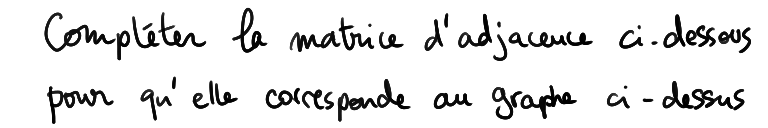
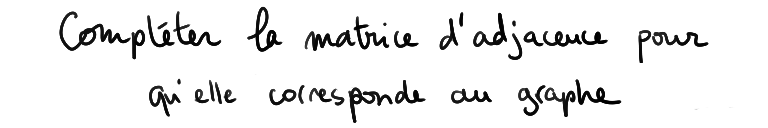
Exercise matrix to graph

diff --git a/ex-matrtograph.go b/ex-matrtograph.go
@@ -1,0 +1,79 @@
+package main
+
+import (
+	"math/rand"
+
+	"github.com/hajimehoshi/ebiten/v2"
+)
+
+func initMatrToGraph() (e exo) {
+
+	e.BasicSetup()
+	e.id = matrToGraph
+	e.successRequired = 5
+
+	elementSpacing := 100
+
+	// title setup
+	e.titleImage = titleMatrToGraphImage
+	xTitleShift, yTitleShift := e.titleImage.Size()
+	e.titleXPosition = (windowWidth - xTitleShift) / 2
+	e.titleYPosition = elementSpacing
+	e.successCounterY = elementSpacing + yTitleShift
+	yTitleShift += spriteSide
+
+	// graph setup
+	e.modifiableGraph = true
+	e.modifiableAdjMatr = false
+	e.displayGraph = true
+	e.displayAdjMatr = true
+
+	e.g.genConnectedGraph(4, 4, 12)
+	e.g.linkMatrGraph = false
+	e.g.clearGraph()
+
+	nodeSpacing := 300
+	e.g.xposition = windowWidth/2 + (windowWidth/2-nodeSpacing)/2
+	e.g.yposition = 2*elementSpacing + yTitleShift
+	e.g.xsize = nodeSpacing
+	e.g.ysize = nodeSpacing
+
+	e.g.nodes[1].xposition = nodeSpacing
+	e.g.nodes[2].yposition = nodeSpacing
+	e.g.nodes[3].xposition = nodeSpacing
+	e.g.nodes[3].yposition = nodeSpacing
+
+	// matrix setup
+	matrixSize := 5 * matrixCellSize
+	e.g.xmatrposition = (windowWidth/2 - matrixSize) / 2
+	e.g.ymatrposition = 2*elementSpacing + yTitleShift
+
+	// question setup
+	from := rand.Intn(4)
+	to := rand.Intn(3)
+	if to == from {
+		to = 3
+	}
+	xshift, yshift := matrToGraphImage.Size()
+	e.drawQuestion = func(screen *ebiten.Image) {
+		options := ebiten.DrawImageOptions{}
+		options.GeoM.Translate(float64((windowWidth-xshift)/2), float64(e.g.ysize+4*elementSpacing+yTitleShift))
+		screen.DrawImage(
+			matrToGraphImage,
+			&options,
+		)
+	}
+
+	// answers setup
+	e.hasAnswerSheet = true
+	answerSize, _ := finiImage.Size()
+	e.answers.init((windowWidth-answerSize)/2, e.g.ysize+yshift+4*elementSpacing+20+yTitleShift)
+	e.answers.addButton(0, 0, finiImage)
+
+	e.checkResult = func() (bool, bool) {
+		return e.g.checkGraphMatrEquality(), e.answers.clics[0] >= 1
+	}
+
+	// return exercise
+	return e
+}

diff --git a/assets.go b/assets.go
@@ -78,6 +78,14 @@ var graphToMatrImage *ebiten.Image // should maybe be created only when needed
 var titleGraphToMatrAsset []byte
 var titleGraphToMatrImage *ebiten.Image // should maybe be created only when needed
 
+//go:embed assets/ex-matrtograph.png
+var matrToGraphAsset []byte
+var matrToGraphImage *ebiten.Image // should maybe be created only when needed
+
+//go:embed assets/extitle-matrtograph.png
+var titleMatrToGraphAsset []byte
+var titleMatrToGraphImage *ebiten.Image // should maybe be created only when needed
+
 const spriteSide int = 64
 
 func loadAssets() {
@@ -183,6 +191,18 @@ func loadAssets() {
 		log.Fatal(err)
 	}
 	titleGraphToMatrImage = ebiten.NewImageFromImage(decodedAsset)
+
+	decodedAsset, _, err = image.Decode(bytes.NewReader(matrToGraphAsset))
+	if err != nil {
+		log.Fatal(err)
+	}
+	matrToGraphImage = ebiten.NewImageFromImage(decodedAsset)
+
+	decodedAsset, _, err = image.Decode(bytes.NewReader(titleMatrToGraphAsset))
+	if err != nil {
+		log.Fatal(err)
+	}
+	titleMatrToGraphImage = ebiten.NewImageFromImage(decodedAsset)
 }
 
 // split the graphElementsImage

diff --git a/main.go b/main.go
@@ -29,7 +29,7 @@ func (g *game) init() {
 	g.goToNext.addButton((windowWidth-xshift)/2, 0, suivantImage)
 	g.onClicNextButton = -1
 	g.selectedNextButton = -1
-	g.e = initGraphToMatr()
+	g.e = initExistArcGraph()
 }
 
 func (g *game) reset() {
@@ -75,6 +75,8 @@ func (g *game) Update() error {
 				g.e = initExistPathMatr()
 			case graphToMatr:
 				g.e = initGraphToMatr()
+			case matrToGraph:
+				g.e = initMatrToGraph()
 			}
 			g.reset()
 		}

diff --git a/ex-existpathmatr.go b/ex-existpathmatr.go
@@ -78,7 +78,7 @@ func initExistPathMatr() (e exo) {
 	// answers setup
 	e.hasAnswerSheet = true
 	answerSize, _ := ouiImage.Size()
-	e.answers.init((windowWidth-3*answerSize)/2, matrixSize+yshift+4*elementSpacing+yTitleShift)
+	e.answers.init((windowWidth-3*answerSize)/2, matrixSize+yshift+3*elementSpacing+20+yTitleShift)
 	e.answers.addButton(0, 0, ouiImage)
 	e.answers.addButton(2*answerSize, 0, nonImage)
 

diff --git a/ex-existarcmatr.go b/ex-existarcmatr.go
@@ -79,7 +79,7 @@ func initExistArcMatr() (e exo) {
 	// answers setup
 	e.hasAnswerSheet = true
 	answerSize, _ := ouiImage.Size()
-	e.answers.init((windowWidth-3*answerSize)/2, matrixSize+yshift+4*elementSpacing+yTitleShift)
+	e.answers.init((windowWidth-3*answerSize)/2, matrixSize+yshift+3*elementSpacing+20+yTitleShift)
 	e.answers.addButton(0, 0, ouiImage)
 	e.answers.addButton(2*answerSize, 0, nonImage)
 

diff --git a/ex-existpathgraph.go b/ex-existpathgraph.go
@@ -96,7 +96,7 @@ func initExistPathGraph() (e exo) {
 	// answers setup
 	e.hasAnswerSheet = true
 	answerSize, _ := ouiImage.Size()
-	e.answers.init((windowWidth-3*answerSize)/2, e.g.ysize+yshift+5*elementSpacing+yTitleShift)
+	e.answers.init((windowWidth-3*answerSize)/2, e.g.ysize+yshift+4*elementSpacing+20+yTitleShift)
 	e.answers.addButton(0, 0, ouiImage)
 	e.answers.addButton(2*answerSize, 0, nonImage)
 

diff --git a/ex-existarcgraph.go b/ex-existarcgraph.go
@@ -90,7 +90,7 @@ func initExistArcGraph() (e exo) {
 	// answers setup
 	e.hasAnswerSheet = true
 	answerSize, _ := ouiImage.Size()
-	e.answers.init((windowWidth-3*answerSize)/2, e.g.ysize+yshift+5*elementSpacing+yTitleShift)
+	e.answers.init((windowWidth-3*answerSize)/2, e.g.ysize+yshift+4*elementSpacing+20+yTitleShift)
 	e.answers.addButton(0, 0, ouiImage)
 	e.answers.addButton(2*answerSize, 0, nonImage)
 

diff --git a/graph.go b/graph.go
@@ -500,3 +500,11 @@ func (g *graph) clearMatr() {
 		}
 	}
 }
+
+func (g *graph) clearGraph() {
+	for i := 0; i < len(g.edges); i++ {
+		for j := 0; j < len(g.edges[i]); j++ {
+			g.edges[i][j] = 0
+		}
+	}
+}

diff --git a/exolist.go b/exolist.go
@@ -6,4 +6,5 @@ const (
 	existPathGraph
 	existPathMatr
 	graphToMatr
+	matrToGraph
 )
